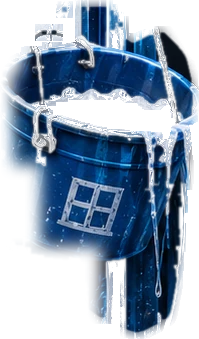
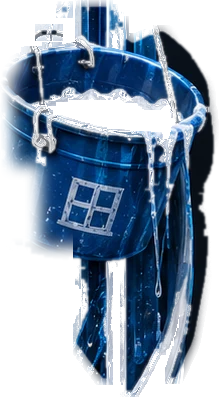
feat(kaart): emmer en trekker als volwaardige voorwerpen uitsnijden
De emmer was recht afgesneden onder het raamlogo: geen bodem, geen druppels.
De oorzaak zat niet in zijn contour maar in de inhoudmaskers. De rechthoek van
het statblok loopt tot x 914, terwijl de tekst erin op x 897 ophoudt en de emmer
pas op x 900 begint — die rechthoek knipte dus puur het voorwerp en geen letter,
en halveerde vanaf y 826 zijn alfa.

`snijd` kan nu per onderdeel een grens meekrijgen waarboven de inhoudmaskers
niet meer gelden. De emmer gebruikt x 900; rechts daarvan staat geen kaarttekst
meer. Zijn contour loopt bovendien door tot onder de kuip, zodat bodem én de
druppels die eronder doorlopen meekomen. Resultaat: 199 × 339 px wordt
219 × 397 px.

De trekker was al compleet — blad, kop, ferrule en steel tot de tip met het gat —
maar sleepte losse glasvlekken mee die naast het gereedschap zweefden. De
aanhechtingshalo gaat van 6 naar 5 px en van 0,55 naar 0,42, zodat het schuim aan
het blad blijft en de glasruis eromheen niet.

Beide steken bewust iets buiten de lijst, zoals op de referentie.

Claude-Session: https://claude.ai/code/session_01Mgnshd48cHs6yi21WFUbTA

diff --git a/scripts/glazenwasser-onderdelen.py b/scripts/glazenwasser-onderdelen.py
@@ -92,11 +92,13 @@ OPHANGING = [
 # Emmer met beugel, schuimkop en de druppels die eroverheen lopen.
 # Emmer met beugel, schuimkop én de druppels die eronder doorlopen: die druppels
 # zijn de verbinding met het water lager op de kaart.
+# Ruim tot onder de kuip: de bodem zat eerder onder de statblok-rechthoek en
+# werd daardoor halftransparant, waardoor de emmer recht afgesneden leek.
 EMMER = [
     (794, 646), (802, 612), (846, 592), (850, 578), (874, 572), (938, 572),
-    (952, 592), (954, 612), (988, 594), (1012, 620), (1020, 652), (1016, 704),
-    (1012, 768), (1006, 830), (996, 884), (964, 900), (930, 886), (896, 862),
-    (856, 848), (826, 820), (806, 744),
+    (952, 592), (954, 612), (988, 594), (1016, 618), (1034, 648), (1040, 704),
+    (1038, 768), (1032, 840), (1020, 906), (1000, 948), (966, 962), (930, 946),
+    (896, 900), (856, 866), (826, 826), (806, 748),
 ]
 
 TREKKER_ONDER = [
@@ -362,6 +364,7 @@ def snijd(
     inhoudvrij: bool = True,
     zacht: float = 0.8,
     korrel: int = 2,
+    vrij_vanaf_x: float | None = None,
     silhouet: float = 0.42,
     halo: int = 6,
     aanhechting: float = 0.55,
@@ -392,7 +395,16 @@ def snijd(
             alpha = ruw * contour
     alpha = np.clip(alpha * versterk, 0, 1)
     if inhoudvrij:
-        alpha *= BRON.vrij
+        vrij = BRON.vrij
+        if vrij_vanaf_x is not None:
+            # De inhoudrechthoeken zijn ruim: die van het statblok loopt tot
+            # x 914, terwijl de tekst erin op x 897 ophoudt en de emmer op 900
+            # begint. Zo'n rechthoek knipt dan puur het voorwerp en geen letter.
+            # Rechts van deze grens staat geen kaarttekst meer, dus daar hoeft
+            # niets beschermd te worden.
+            vrij = vrij.copy()
+            vrij[:, int(vrij_vanaf_x):] = 1.0
+        alpha *= vrij
     # Onderdelen die als eigen asset terugkomen horen niet ook in deze uitsnede:
     # anders staat er een tweede, verschoven exemplaar op de kaart zodra de twee
     # los worden geplaatst.
@@ -812,11 +824,14 @@ def main() -> int:
     # lijst hoort zoals op de referentie. Zijn contour blijft nodig om hem daar
     # tegen het tekstmasker te beschermen.
     # Dunne, hooggekleurde steel: een grovere ontkorreling knipt hem weg.
+    # Krappere aanhechting: het schuim aan het blad hoort erbij, de losse
+    # glasvlekken rechts ernaast niet.
     snijd("trekker-boven", TREKKER_BOVEN, "vast", feather=5.0, drempel=14.0,
-          korrel=1, zacht=1.0)
+          korrel=1, zacht=1.0, halo=5, aanhechting=0.42)
     snijd("ophanging", OPHANGING, "glas", feather=6.0, drempel=11.0,
           spreiding=24.0, versterk=1.15, zonder=(EMMER,))
-    snijd("emmer", EMMER, "vast", feather=5.0, drempel=14.0, zacht=1.0)
+    snijd("emmer", EMMER, "vast", feather=5.0, drempel=14.0, zacht=1.0,
+          vrij_vanaf_x=900)
     snijd("onderschild", ONDERSCHILD, "vast", feather=6.0, drempel=14.0,
           zacht=1.2)
     # Waterexplosie, hoekijs en flankdruppels zijn geen losse onderdelen meer:
